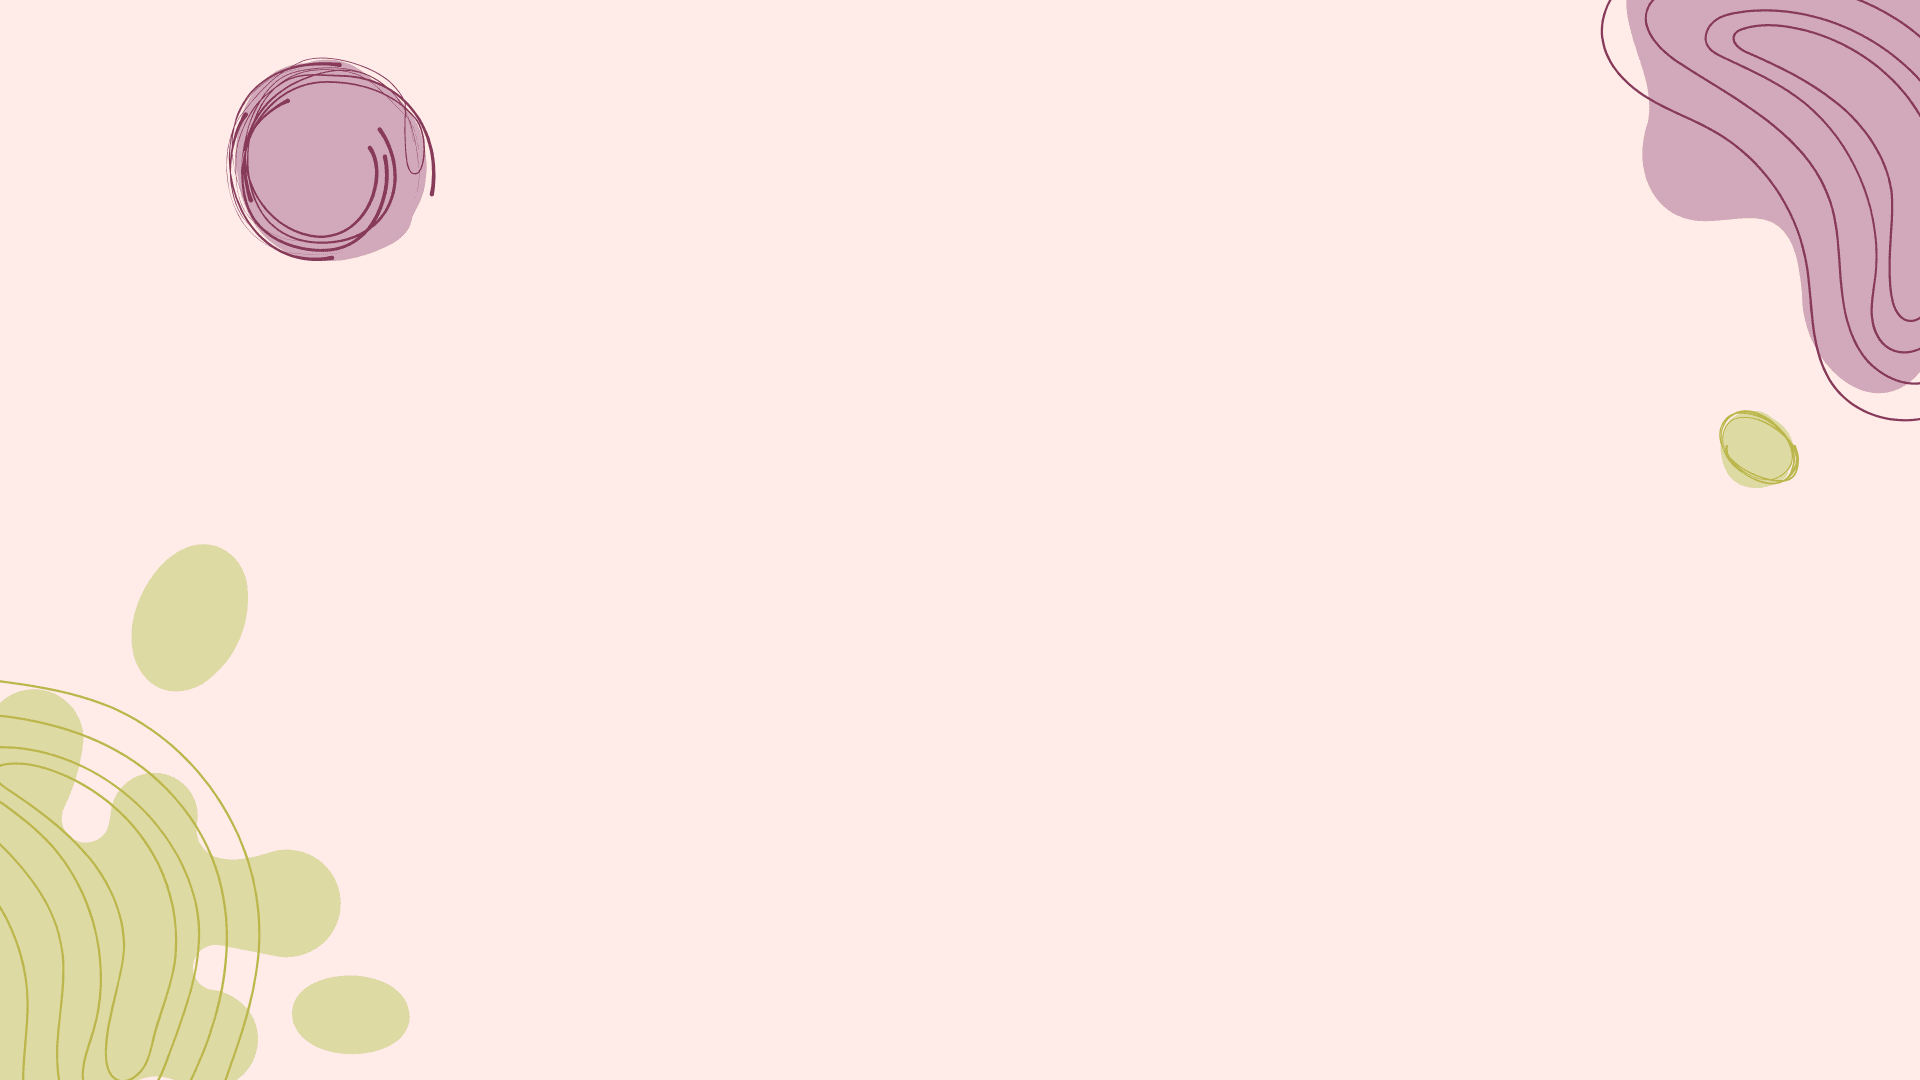
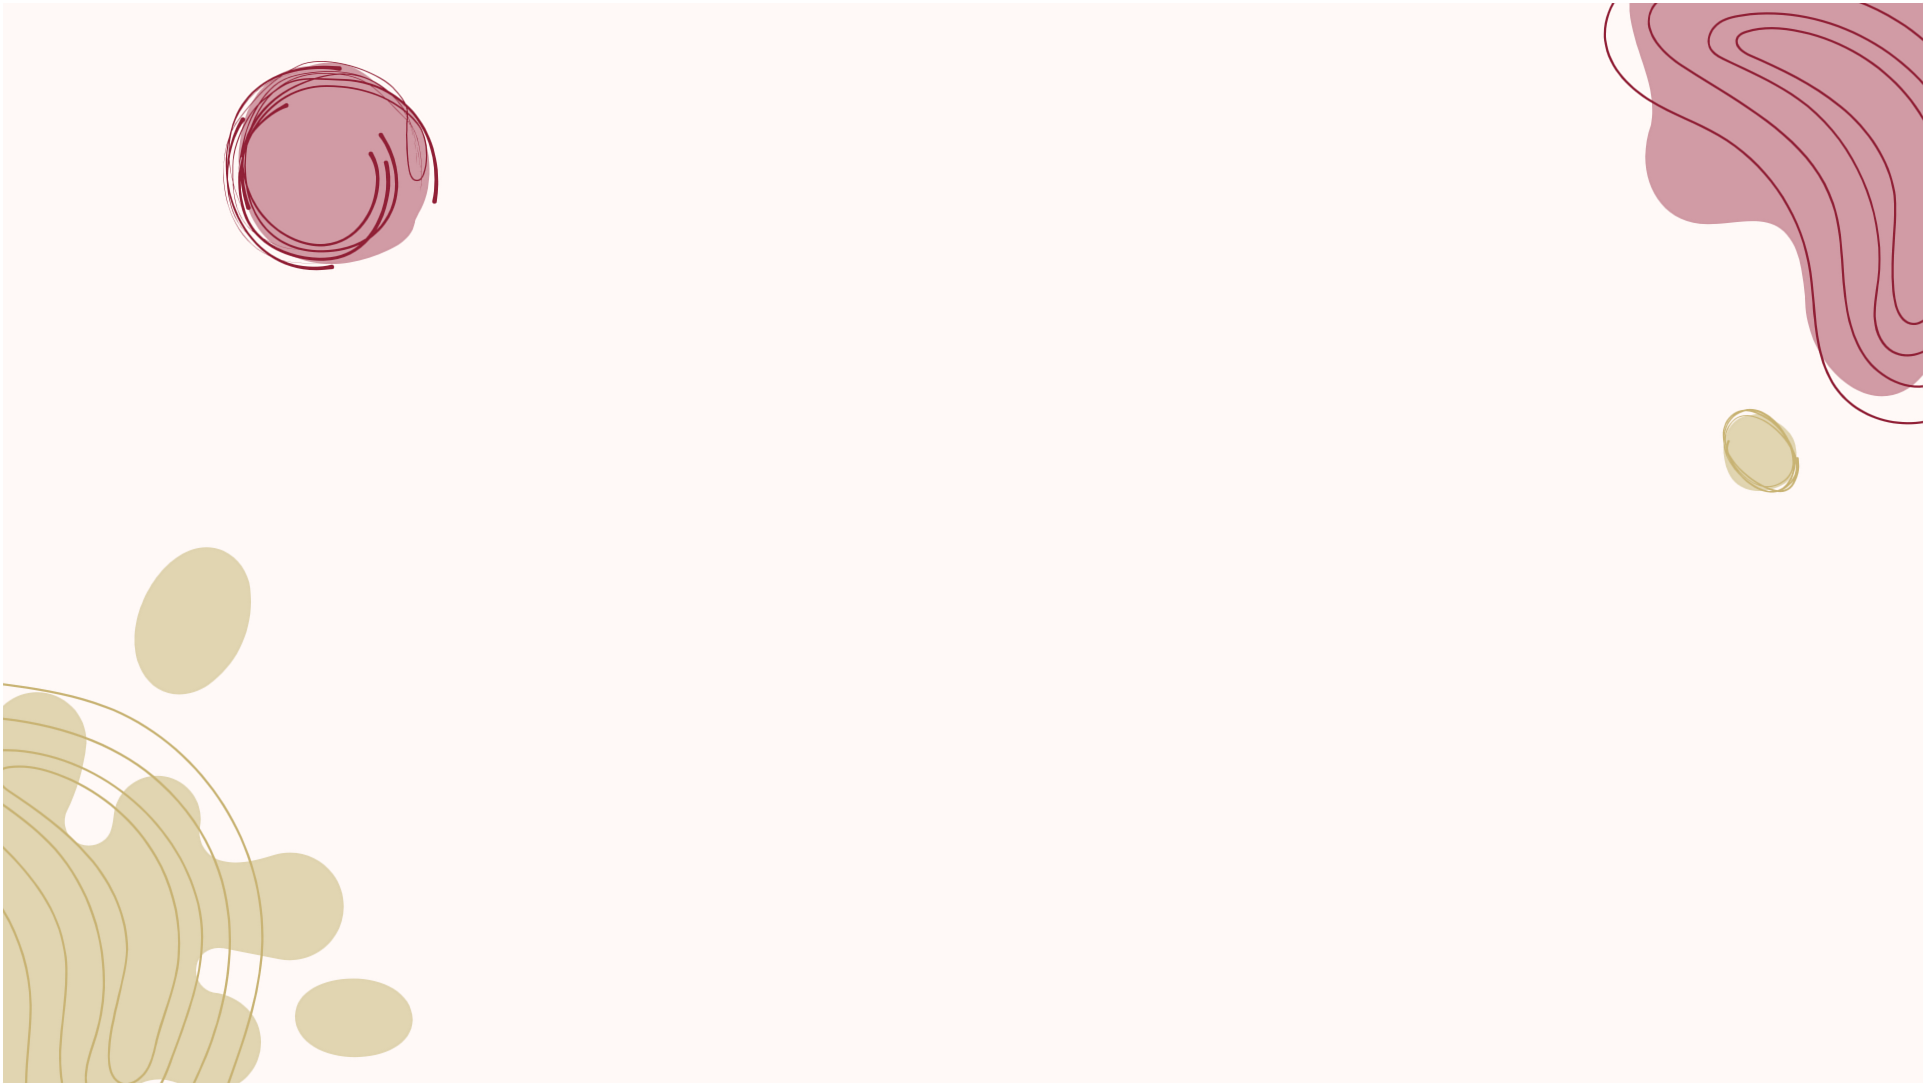
changed the background image along with navbar colors

diff --git a/client/src/Pages/Components/Styles/NavBar.css b/client/src/Pages/Components/Styles/NavBar.css
@@ -40,7 +40,7 @@ a:visited {
 :root {
   --accent-text-color: #732b3d;
   --text-color: #320606;
-  --background-color: #ffebe8;
+  --background-color: #fff9f7;
 }
 
 /* Navbar section */
